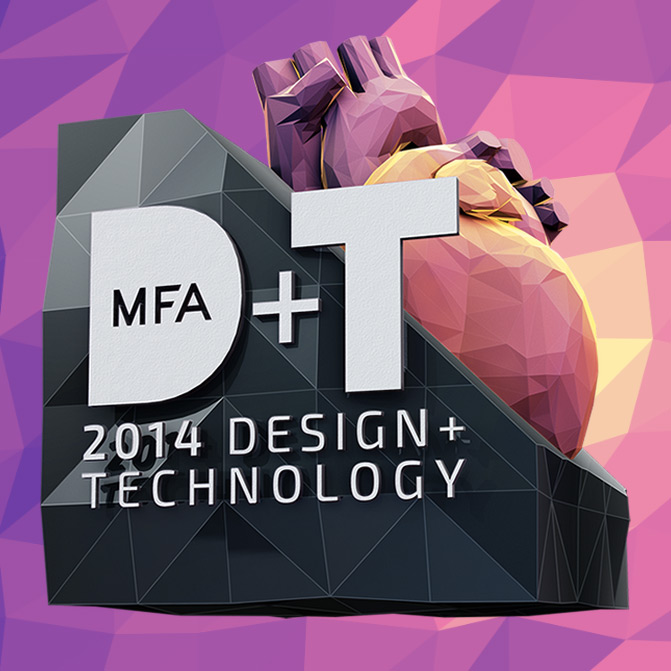
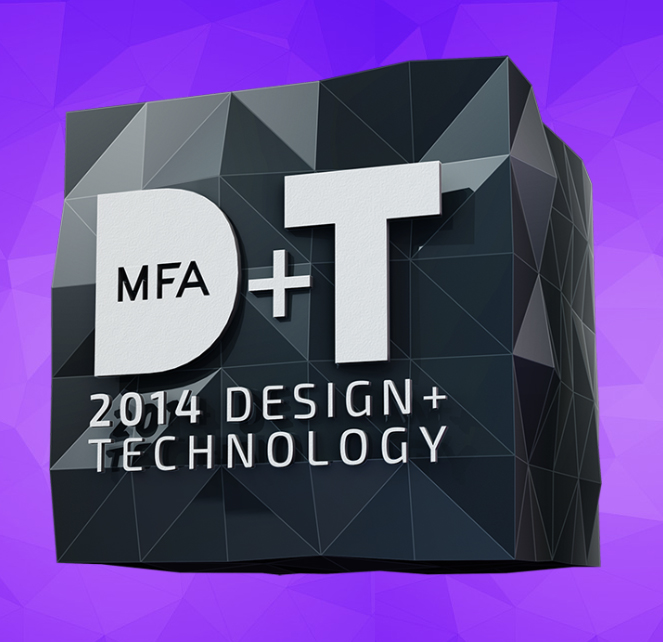
Updated embed image, added student renders to gitignore

diff --git a/wp-content/themes/mfadt14/header.php b/wp-content/themes/mfadt14/header.php
@@ -21,13 +21,13 @@
     <meta name="twitter:title" content="MFAD+T Thesis Show 2014">
     <meta name="twitter:description" content="Join us this May for a week-long exhibition of 70+ projects by emerging artists, designers, coders, makers, hackers, educators, and thinkers.">
     <meta name="twitter:creator" content="@mfadt">
-    <meta name="twitter:image:src" content="http://mfadt.parsons.edu/2014/assets/img/hero/embed.jpg">
+    <meta name="twitter:image:src" content="http://mfadt.parsons.edu/2014/assets/img/hero/embed.v2.jpg">
     <meta name="twitter:domain" content="mfadt.parsons.edu">
 
     <meta property="og:site_name" content="MFAD+T Thesis Show 2014">
     <meta property="og:title" content="Join us this May for a week-long exhibition of 70+ projects by emerging artists, designers, coders, makers, hackers, educators, and thinkers.">
     <meta property="og:url" content="http://mfadt.parsons.edu/2014/">
-    <meta property="og:image" content="http://mfadt.parsons.edu/2014/assets/img/hero/embed.jpg">
+    <meta property="og:image" content="http://mfadt.parsons.edu/2014/assets/img/hero/embed.v2.jpg">
     <meta property="og:description" content="Symposium: May 16-17. Exhibition: May 17-25. Reception: May 21.">
 
 	<?php wp_head(); ?></head>
